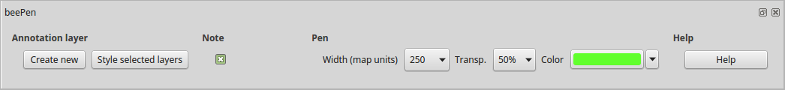
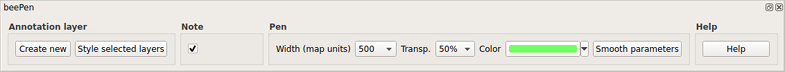
Help updated

diff --git a/help/help.html b/help/help.html
@@ -41,16 +41,37 @@
 		  <p><img src="ims/beepen_window.png">
 		  <figcaption>Fig. 2</figcaption>
 		</figure>
+		The created line can be automatically simplified and smoothed by setting the parameters in the window (Fig. 3),
+		activated by pressing the "smooth parameters" button in the main plugin window (cf. Fig. 2).
+		The simplify tolerance parameter, a distance value in the same unit as the project CRS, regulates which points are
+		collapsed into a single vertex: ".. points are removed if the distance with the tentative simplified line is smaller than the tolerance"
+		(from <a href="https://gis.stackexchange.com/questions/148585/what-is-simplify-tolerance-in-qgiss-simplify-geometries-tool">
+		What is "Simplify tolerance" in QGIS's Simplify geometries tool?</a>).
+		The smoothing is based on the Chaikin algorithm. The parameters are the same as the equivalent QGIS smooth function
+		(<a href="https://qgis.org/pyqgis/master/core/QgsGeometry.html?highlight=smooth#qgis.core.QgsGeometry.smooth">smooth method</a>):
+		<ul>
+			<li><p><strong>iterations</strong> - number of smoothing iterations to run. More iterations results
+			in a smoother geometry</p></li>
+			<li><p><strong>offset</strong> - fraction of line to create new vertices along, between 0 and 1.0,
+			e.g., the default value of 0.25 will create new vertices 25% and 75% along each line segment
+			of the geometry for each iteration. Smaller values result in “tighter” smoothing.</p></li>
+			<li><p><strong>minimumDistance</strong> - minimum segment length to apply smoothing to</p></li>
+			<li><p><strong>maxAngle</strong> - maximum angle at node (0-180) at which smoothing will be applied</p></li>
+		</ul>
+		<figure>
+		  <p><img src="ims/smoothing_window.png">
+		  <figcaption>Fig. 3</figcaption>
+		</figure>
 		To draw annotations, create a new annotation layer from the beePen window (see Fig. 2) or load an existing one with QGIS (and style it if necessary
-		with the "Style selected layers" command), and then draw annotations by selecting the pen tool (command with pencil icon in Fig. 3).
-		You can delete one or more annotations by drawing a line above them with the eraser tool (rightmost command in Fig. 3).<br />
+		with the "Style selected layers" command), and then draw annotations by selecting the pen tool (command with pencil icon in Fig. 4).
+		You can delete one or more annotations by drawing a line above them with the eraser tool (rightmost command in Fig. 4).<br />
 		<figure>
 		  <p><img src="ims/beepen_commands.png">
-		  <figcaption>Fig. 3</figcaption>
+		  <figcaption>Fig. 4</figcaption>
 		</figure>
 	</div>
 	<br /><br />
-	<div style="font-style: italic; font-size:80%">Text version: August 28, 2018, by Mauro Alberti</div>
+	<div style="font-style: italic; font-size:80%">Text version: June 8, 2019, by Mauro Alberti</div>
 
 
 	
